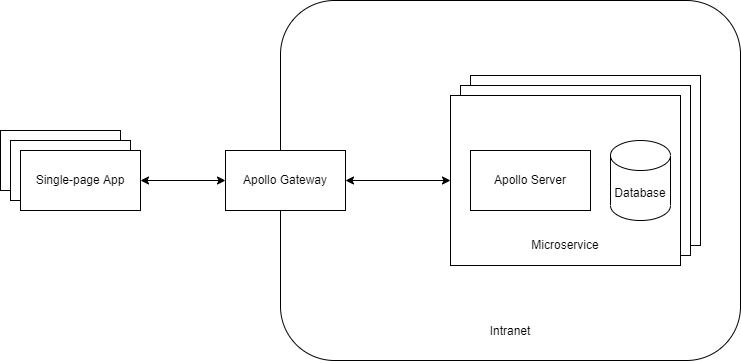
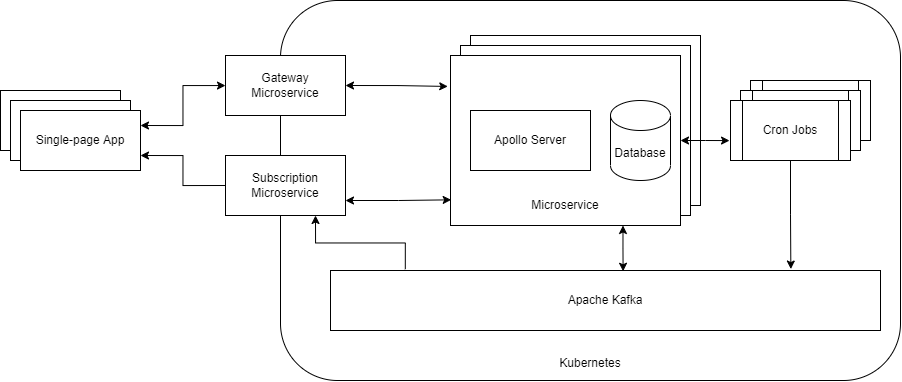
Updated the main readme

diff --git a/README.md b/README.md
@@ -12,41 +12,38 @@ The main purpose of this repository is to learn while developing something cool.
 ## Goals
 The goal started out as creation of a LitElement component collection usable in multiple web application templates. Those
 templates can be used to quickly assemble web applications for potential customers. This goal has extended
-into development of an application that can be used to analyze business relationships for investing purposes; a concrete
+into application development that can be used to analyze business relationships for investing purposes; a concrete
 implementation of that template idea.
 
 ## Design Decisions
 
-![High Level Architecture](./img/predecos-high-level.drawio.png "High Level Architecture")
+![High Level Architecture](./img/predecos-high-level.png "High Level Architecture")
 
-### The Client
-The following are design decisions considered when choosing client technologies.
+### The Front-end
 
 #### Lit
 Lit has multiple benefits. First, it's familiar which is significant. However, it's also incredibly fast and light-weight.
 When benchmarked against React it renders 30% faster for a large number of DOM nodes. Lit came about as a result of the
-Polymer project at Google which had the goal of reducing use of javascript frameworks creating custom elements. Those frameworks
+Polymer project at Google which had the goal of reducing use of javascript frameworks focused on creating custom elements. Those frameworks
 are essentially needed because the browser doesn't perform it's job well enough. It's ideal to move the custom component concept into the browser itself instead
-of relying on frameworks to implement that logic. Frameworks introduce additional layers which increase execution time. They prevent
+of relying on frameworks. Frameworks introduce additional layers which increase execution time. They prevent
 reuse of custom components from one framework to the next making it difficult to migrate to a different framework as well as
 requiring recreation of components that may already be available publicly (i.e, on GitHub). With adoption of custom elements support
 in numerous popular browsers those frameworks are no longer needed though they're still extremely popular. It's notable
 that wide-spread use of frameworks means many developers are familiar with them and, therefore, it may be difficult to find developers
 who know, i.e, Lit because it's newer. However, that may change. All of this is to say, Lit was also chosen because it
-continues that goal of using the platform giving performance gains and increasing compatibility with the current javascript ecosystem.
+continues that goal of using the platform resulting in performance gains and increasing compatibility with the current javascript ecosystem.
 
 #### Rollup
 Building the application is done using rollup because it has a clean, concise syntax. WebPack is extremely customizable but it's more
 confusing to maintain. Right now, builds aren't doing anything complex so this fits my use case.
 
 #### Testing
-Mocha chai is used for front-end testing along with [open-wc testing helpers](https://open-wc.org/docs/testing/helpers/) and
-[web test runner](https://modern-web.dev/docs/test-runner/overview/). The testing helpers currently have some problems waiting
-for element updates as of the time of this writing. This follows from use of a relatively new ecosystem. Over time those
-libraries will likely stabilize.
+Mocha and chai are used for front-end testing along with [open-wc testing helpers](https://open-wc.org/docs/testing/helpers/) and
+[web test runner](https://modern-web.dev/docs/test-runner/overview/).
 
-### The Server
-The following design decisions were considered when choosing server-side technologies.
+
+### The Back-end
 
 #### Microservices Architecture
 The microservices architecture provides for scalability of the system as well as clean separation of concerns. The goal of this
@@ -54,28 +51,27 @@ application is to create a data analysis platform. There are three typical proce
 data collection, data cleaning and data analysis. The microservices are partitioned by those responsibilities along with various
 site-specific bits of functionality (i.e, configuration). In combination with kubernetes and docker, this means that each microservice
 can scale independently of the other microservices. Additionally, each can be deployed independtly and if one fails the result won't
-necessarily bring down the whole system. Kafka is used for communication between the different microservices which is an efficient
-application structure. An event occurs and microservices that subscribe to that event automatically process the resultant event.
-This in combination with graphql subscriptions allows for the user-interface to be updated every time an event occurs. This is a
-very powerful concept.
+necessarily bring down the whole system. Kafka is used for communication between the different microservices which is efficient.
+An event occurs and microservices that subscribe to that event process it.
+This in combination with graphql subscriptions allows for the user-interface to be updated every time an event occurs.
 
 #### Kafka
-[Bitnami Kafka](https://github.com/bitnami/bitnami-docker-kafka) is used for the kafka instance. What's important is that kafka is
-used. Kafka is a messaging system that's heavily used for events. It's been around for a while and is battle-tested. It's not
+[Bitnami Kafka](https://github.com/bitnami/bitnami-docker-kafka) is used for the kafka instance.
+Kafka is a messaging system that's heavily used for events. It's been around for a while and is battle-tested. It's not
 the fastest option out there. But events persist (it's not in-memory) and the interface is simple in combination with [KafkaJS](https://kafka.js.org/). Production-readiness is obvious given its use by many large companies. Kafka use enables powerful real-time capabilities
 for the application.
 
 #### Apollo GraphQL
 [Apollo GraphQL](https://www.apollographql.com/) provides a production-ready GraphQL implementation with some powerful features.
 For a microservices architecture, our goal is to create isolated units that have a single responsibility and that can scale
-independently. Apollo provides schema stitching and, more recently added, federation. I've used federation because it's viewed
+independently. I've used Apollo federation because it's viewed
 as a better way of isolating microservice responsibilities. Specifically, a microservice defines its own types
 but it also defines how its interface is used by other microservices. This, in theory, encapsulates all of the code relating to a given
 service in one codebase. One benefit of that would be full-stack development can be done without making changes that collide
-with another teams changes. Federation, as well as schema stitching, provide mechanisms for connecting a subgraph
-to a full application supergraph in a seamless way. Federation uses a single gateway that provides access to the remaining
+with another teams changes provided that the interface isn't changed. Federation provides mechanisms for connecting a subgraph
+to a full application supergraph in a seamless way. It uses a single gateway that provides access to the remaining
 services. This gateway is the publicly accessible end-point for the microservices and routes requests to the necessary
-microservice needed to gather the response. This application uses this concept because it's intended to introduce additional
+microservices needed to gather the response. This concept is used because it's intended to introduce additional
 microservices that will perform tasks such as data fetching/collection, data cleaning and data analysis. Additional benefits
 include reducing the number of requests that need to go over the wire to gather data when
 compared to RESTful APIs. It's backed by facebook and is used by numerous companies and is therefore battle-tested. It's also fun. :-)
@@ -87,40 +83,35 @@ project to take advantage of self-healing, monitoring, replication and load-bala
 #### Docker
 Docker provides containerization and is used for a couple of reasons. It allows developers to reproduce bugs that are seen in different
 environments such as production. It encapsulates application dependencies and configuration such that each application will run
-without worry about conflicting dependencies in a different application. It allows for easy backup and it takes up a much smaller
+without worry about conflicts. It allows for easy backup and it takes up a much smaller
 footprint than virtual machines. It's also moving toward greater adoption on multiple platforms such as windows.
-
-#### Postgres
-Postgres was chosen simply because I've heard good things about it and it's heavily used.
 
 #### MongoDB
 While data structure is unknown MongoDB is a good fit because it allows for creation of data in a flexible manner. While data structure
 is being figured out Mongo can be used to quickly store data of a particular structure mapping easily to the graphql API. Joins are much
-slower on Mongo when compared to Postgres so there are performance implications. However, the current data landscape is very simple. Once
+slower on Mongo when compared to RDBMS so there are performance implications. However, the current data landscape is very simple. Once
 complexity is introduced through use cases, Postgres will be adopted where appropriate (i.e, data analysis).
 
 #### Testing
-Mocha chai is also used in the back-end for BDD style testing. The 'expect' syntax is incredibly readable and easy to understand.
+Mocha and chai are also used in the back-end. The 'expect' syntax is incredibly readable and easy to understand.
 It's also desirable to use as few technologies as possible to achieve one's goals because that makes it easier for developers to
 learn, which means it's easier to navigate the codebase.
 
 ### Additional Design Decisions
-The following are design decisions that were not catagorizable as only client or server. Some of them are both.
 
 #### Continuous deployment
 The system is automatically deployed to my public development environment. This is a powerful concept that allows for
-fast development. With sufficient testing, automated system can allow for safe automated deployment of the code to
-"production."
+fast development. With sufficient testing the automated system safely deploys the code to the public environment.
 
 #### Use of full-stack JavaScript
 Reducing the mental effort needed to understand a given codebase has dramatic impacts on software development speed
 and stability. Full-stack javascript was used here (along with the same testing frameworks on both front and back end)
 because developers only have to learn one language as opposed to multiple. If the need arises, a microservice can diverge
-from that due to the isolation of the microservices. However, it's ideal to keep everything simple and to try to avoid that.
+from that due to the isolation of the microservices. However, it's ideal to keep everything simple.
 
 #### Auth0 for Authentication/Authorization
-Regardless of a developers experience-level implementing security-related code, it's a good idea to use a library that's
-trusted by many others and that's open-source. Open-source security libraries have the advantage that more eyes can see the code
+Regardless of a developers experience-level implementing security-related code it's a good idea to use a library that's
+trusted by many others and that's open-source. Popular open-source security libraries have the advantage that more eyes can see the code
 thereby increasing the likelihood that vulnerabilities will be found. Additionally, when they're found they can be fixed by
 one developer that's good at security and that fix will benefit everyone using the library. Due to my lack of experience
 with security-related development I opted to use one that was already available. Auth0.
